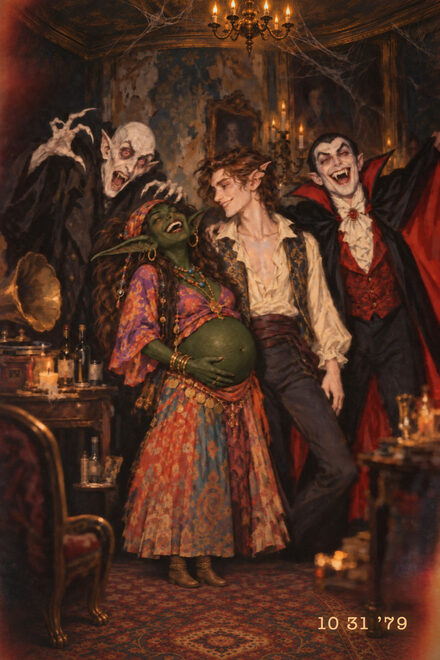
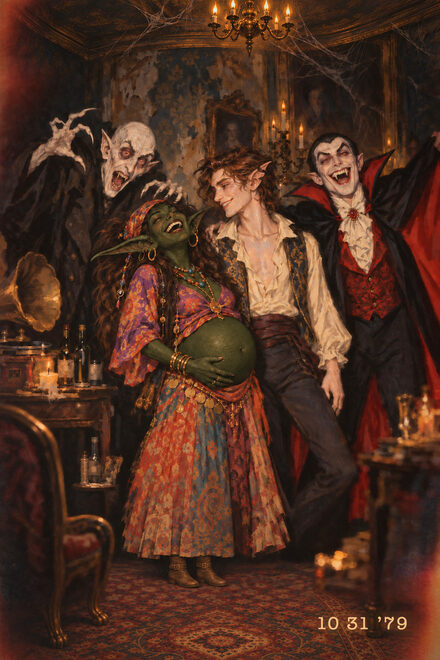
Photo print is sharp: build the 2:3 painting at 1200x1800 from the 1122x1402 master, finer grain

diff --git a/print/photo-4x6.html b/print/photo-4x6.html
@@ -14,9 +14,12 @@
      Two vampires mugging, a pregnant goblin laughing, and a fae
      with no fangs."
 
-     Full bleed, no border. assets/photograph-2x3.jpg is the painting
-     (assets/photograph.jpg, 4:5) outpainted to 2:3 with Codex: more
-     ceiling above, more floor below, the four figures untouched. The
+     Full bleed, no border. assets/photograph-2x3.jpg is already
+     1200×1800, so Chrome draws it 1:1 with no resampling: the painting's
+     1122×1402 Codex master (Lanczos to 1200×1500) feathered into a Codex
+     outpaint that adds ceiling above and floor below. The four figures
+     come only from the master. Grain is fine (≈1px) and light so it
+     doesn't soften the paint. The
      date stamp sits ~0.25in in from the corner so a print trim can't
      reach it.
 
@@ -33,7 +36,7 @@
   <svg viewBox="0 0 400 600" xmlns="http://www.w3.org/2000/svg" aria-hidden="true">
     <defs>
       <filter id="grain">
-        <feTurbulence type="fractalNoise" baseFrequency="1.1" numOctaves="3" seed="7"/>
+        <feTurbulence type="fractalNoise" baseFrequency="2.2" numOctaves="2" seed="7"/>
         <feColorMatrix type="saturate" values="0"/>
         <feComponentTransfer><feFuncA type="linear" slope=".16"/></feComponentTransfer>
       </filter>
@@ -51,7 +54,7 @@
     <!-- 1979 film grade, kept light so the painting survives it -->
     <rect width="400" height="600" fill="#c47a2e" opacity=".06" style="mix-blend-mode:overlay"/>
     <rect width="400" height="600" fill="url(#vig)"/>
-    <rect width="400" height="600" filter="url(#grain)" opacity=".30"/>
+    <rect width="400" height="600" filter="url(#grain)" opacity=".22"/>
 
     <!-- DATESTAMP — orange, burned into the corner by the camera -->
     <text x="372" y="572" text-anchor="end"
